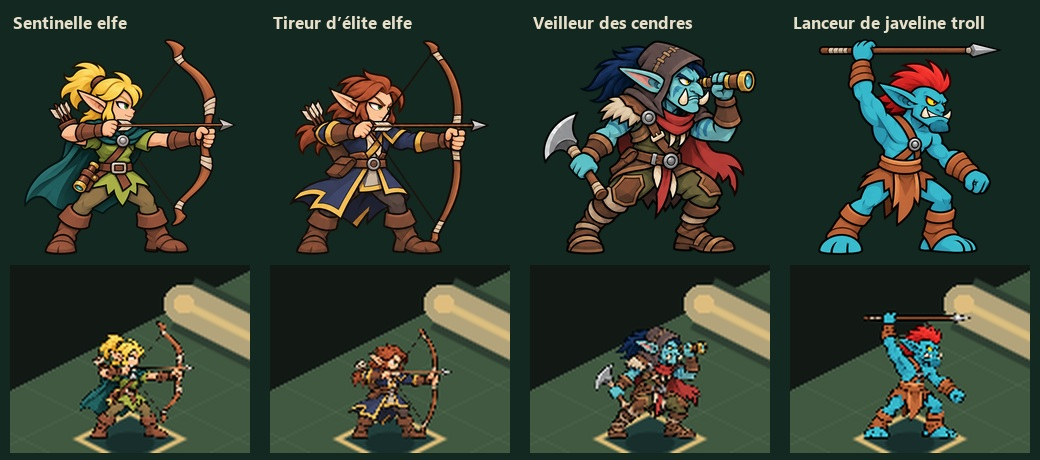
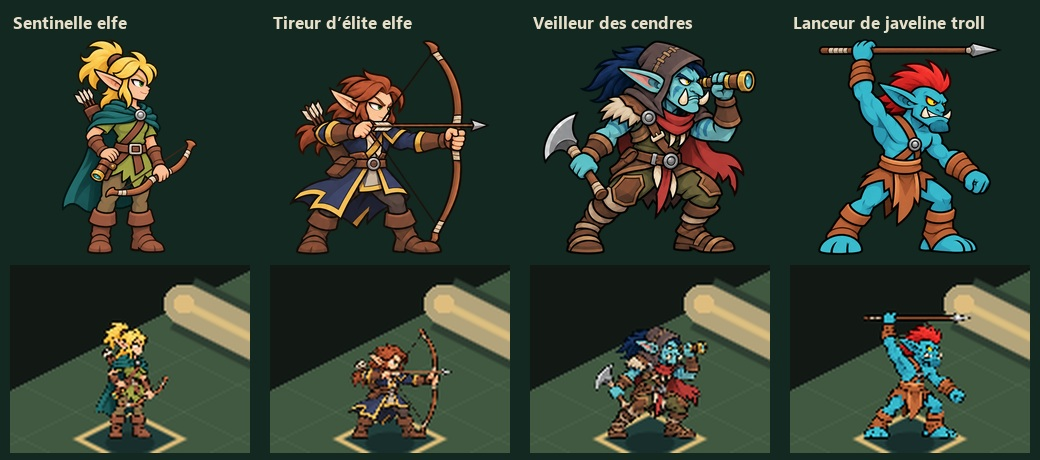
Give the elven sentinel a distinct guard silhouette

Changed region(s): [[0.0308, 0.0913, 0.2154, 0.5478], [0.0615, 0.7, 0.1846, 0.9739]]

diff --git a/design/Visuels_Boutique_Guetteurs.md b/design/Visuels_Boutique_Guetteurs.md
@@ -2,13 +2,13 @@
 
 Le porteur a demandé de retrouver le style des unités existantes, puis a jugé les nouvelles proportions meilleures. La troisième planche conserve les visages expressifs, les aplats et les membres de l’archer elfe et des trolls de référence.
 
-La sentinelle a deux poses. Pour son portrait en boutique, elle tient sa longue-vue à deux mains, avec l’arc en bandoulière. Sur le plateau, elle bande l’arc à deux mains et porte la longue-vue à la ceinture. Le tireur d’élite elfe porte un grand arc. Le veilleur tient une hache et le javelinier lève sa javeline au-dessus de sa crête, avec un espace visible entre le bois et les cheveux. Les visuels attendent l’avis du porteur.
+Pour son portrait en boutique, la sentinelle tient sa longue-vue à deux mains, avec l’arc en bandoulière. Sur le plateau, elle se tient droite, arc court tenu bas en diagonale et longue-vue à la ceinture. Cette silhouette la distingue du tireur d’élite, campé en position de tir avec son grand arc vertical. Le veilleur tient une hache et le javelinier lève sa javeline au-dessus de sa crête, avec un espace visible entre le bois et les cheveux. Les visuels attendent l’avis du porteur.
 
-[Sentinelle au guet et en joue](essais/boutique_guetteurs/Sentinelle_guet_et_tir.jpg) · [Illustrations et rendu sur le plateau](essais/boutique_guetteurs/Quatre_unites.jpg) · [Boutique Alliance](essais/boutique_guetteurs/Boutique_Alliance.jpg) · [Boutique Horde](essais/boutique_guetteurs/Boutique_Horde.jpg)
+[Comparaison sentinelle et tireur d’élite en jeu](essais/boutique_guetteurs/Sentinelle_et_tireur_elite.jpg) · [Illustrations et rendu sur le plateau](essais/boutique_guetteurs/Quatre_unites.jpg) · [Boutique Alliance](essais/boutique_guetteurs/Boutique_Alliance.jpg) · [Boutique Horde](essais/boutique_guetteurs/Boutique_Horde.jpg)
 
 | Type | Fichier | Cadre | Pied | Hauteur du cadre | Départ du projectile proposé |
 | --- | --- | --- | --- | ---: | --- |
-| 10 | `sentinelle_elfe_v001.png` | `Rect2(0,0,1168,1182)` | `(517, 1182)` | 59 | `(24.75, -35.375)` |
+| 10 | `sentinelle_elfe_v001.png` | `Rect2(0,0,744,1176)` | `(353, 1176)` | 59 | `(9.25, -22.0)` |
 | 11 | `tireur_elite_elfe_v001.png` | `Rect2(0,0,575,610)` | `(234, 610)` | 56 | `(22.625, -33.5)` |
 | 16 | `veilleur_cendres_v001.png` | `Rect2(0,0,575,570)` | `(282, 570)` | 57 | `(-18.375, -24.125)` |
 | 17 | `javelinier_troll_v001.png` | `Rect2(0,0,1024,1196)` | `(444, 1196)` | 64 | `(-9.875, -60.5)` |

diff --git a/ECHANGES_CODEX_VERS_CLAUDE.md b/ECHANGES_CODEX_VERS_CLAUDE.md
@@ -8,7 +8,7 @@ Format d'une entrée : `### AAAA-MM-JJ — Titre (ouvert)` puis le contenu : fic
 
 ### 2026-11-14 — Corrections des guetteurs et tireurs d’élite (ouvert)
 
-Les PNG révisés remplacent la proposition du 13 novembre. Le tireur d’élite elfe utilise un grand arc et le troll tient sa javeline au-dessus de la crête. La sentinelle dispose désormais d’un portrait au guet à deux mains et d’une pose de tir pour le plateau. Attendre l’avis du porteur. À l’intégration, associer `sentinelle_elfe_guet_v001.png` au portrait du type 10 et l’ajouter aux listes d’export. Associer visuellement un projectile de type flèche au 11 et une javeline au 17. Le 11 reste dans sa famille actuelle pour les talents et l’équilibrage tant qu’une règle n’est pas décidée. Les nouveaux cadres et points de départ sont dans la [fiche](design/Visuels_Boutique_Guetteurs.md).
+Les PNG révisés remplacent la proposition du 13 novembre. Le tireur d’élite elfe utilise un grand arc et le troll tient sa javeline au-dessus de la crête. La sentinelle dispose d’un portrait au guet à deux mains et d’une pose de garde avec arc court abaissé sur le plateau. Attendre l’avis du porteur. À l’intégration, associer `sentinelle_elfe_guet_v001.png` au portrait du type 10 et l’ajouter aux listes d’export. Associer visuellement un projectile de type flèche au 11 et une javeline au 17. Le 11 reste dans sa famille actuelle pour les talents et l’équilibrage tant qu’une règle n’est pas décidée. Les cadres et points de départ actualisés sont dans la [fiche](design/Visuels_Boutique_Guetteurs.md).
 
 ### 2026-11-13 — Boutique, guetteurs et tireurs d’élite (ouvert)
 

diff --git a/PASSATION.md b/PASSATION.md
@@ -4,7 +4,7 @@ Mettre ce fichier à jour à chaque fin de mission ou changement d'agent (voir `
 
 ## État au 14 novembre 2026 — Codex
 
-**Boutique, types 10, 11, 16 et 17.** Refonte en proportions cartoon des références. La sentinelle tient la longue-vue à deux mains, arc en bandoulière, dans le portrait de boutique. Son illustration de plateau la montre en train de bander son arc. Quatre portraits et premiers tirs vérifiés sur la copie d’essai v0.197, 40 contrôles au vert. Avis du porteur et branchement à suivre, avec le portrait distinct et les projectiles adaptés. [Aperçus](design/Visuels_Boutique_Guetteurs.md).
+**Boutique, types 10, 11, 16 et 17.** Refonte en proportions cartoon des références. La sentinelle tient la longue-vue à deux mains, arc en bandoulière, dans le portrait de boutique. Sa silhouette sur le plateau est droite, l’arc court porté bas, pour la distinguer du tireur d’élite en joue. Quatre portraits et premiers tirs vérifiés sur la copie d’essai v0.197, 40 contrôles au vert. Avis du porteur et branchement à suivre. [Aperçus](design/Visuels_Boutique_Guetteurs.md).
 
 **Nécropole 191–200 et Revenant.** Cinq placements par carte, trois planches de marche en combat et portrait livré. 26 passages en vague 4 dans les deux factions. Le validateur couvre 23 dossiers sans problème. Sept suites ciblées passent (31 528 contrôles Godot et 17 tests Python). Le portrait et la relève sont à brancher par Claude Code. La planche de relève a un aperçu isolé. [Fiche](design/Visuels_Necropole.md#chapitre-20--missions-191-à-200).
 
